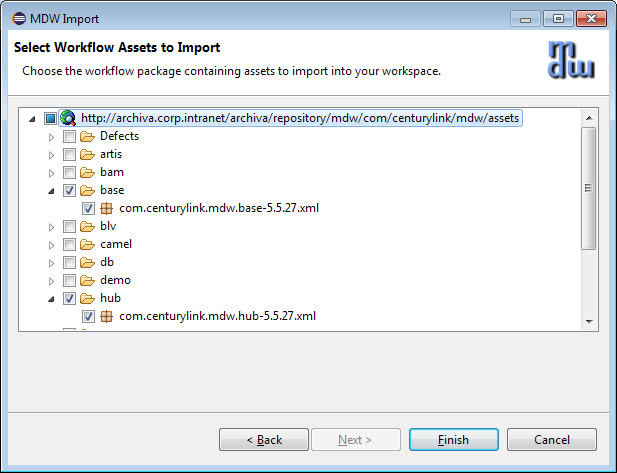
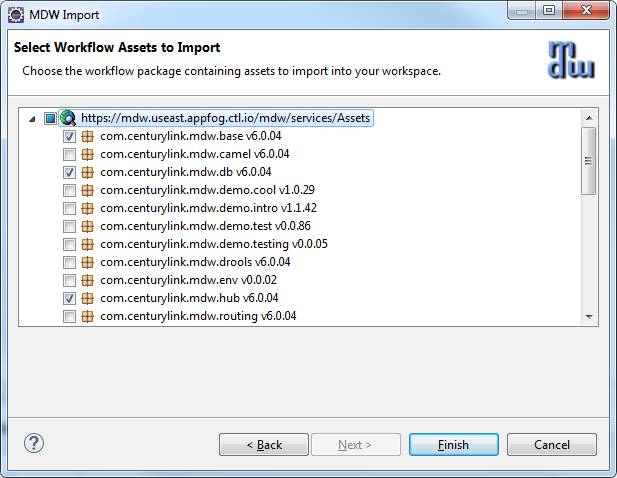
documentation #47

Changed region(s): [[0.0, 0.0, 1.0, 1.0], [0.9238, 0.3256, 0.9546, 0.3552]]

diff --git a/docs/_docs/help/workflowAssets.html b/docs/_docs/help/workflowAssets.html
@@ -42,7 +42,7 @@ All of these assets can be managed in the same way, with the following built-in 
 <h3>Managing Workflow Assets</h3>
 Workflow assets can be managed by developers or end-users via MDW Designer, as long as they belong to the role ProcessAdmin for the target project.
 To create a brand new instance of an asset, right-click on a workflow package in Process Explorer, and selecting New, and then the type of asset desired.
-Assuming that you appropriate permissions, updates can be accomplished by double-clicking the asset to edit it in place, or by right clicking and selecting Import > New Version.
+Assuming that you have appropriate permissions, updates can be accomplished by double-clicking the asset to edit it in place, or by right clicking and selecting Import > New Version.
 Either way, the version will be incremented and you'll be prompted for a comment to accompany the new version. 
 <br/><br/>
 <img src="images/newAsset.jpg" />
@@ -55,9 +55,9 @@ Then after updating the asset in an external editor, import your changes by righ
 <br/>
 
 <h3><a id="assetImport">Asset Import</a></h3>
-MDW applications need to be able to version their assets and propagate them one environment to another (dev to test, test to prod, etc.).
-Starting with MDW 5.5 asset versioning is achieved by integrating with Git (see <a href="assetPersistence.html">Asset Persistence</a>).
-Importing assets from Git can be done through Designer, or through a command-line interface to support automation and continuous integration.
+MDW applications need to be able to version their assets and propagate them from one environment to another (dev to test, test to prod, etc.).
+Asset versioning is achieved by integrating with GitHub (see <a href="assetPersistence.html">Asset Persistence</a>).
+Importing assets from GitHub can be done through Designer, or through a command-line interface to support automation and continuous integration.
 <br/><br/>
 TODO: screenshots for Designer import from Git, and examples of command-line import scripts
 <br/><br/>
@@ -65,7 +65,7 @@ TODO: screenshots for Designer import from Git, and examples of command-line imp
 <h3><a id="discovery">Asset Discovery</a></h3>
 Beyond environmental migrations, MDW <a href="workflowAssets.html">Workflow Assets</a> are meant to be shared and reused
 across applications.  For this purpose Designer provides a discovery mechanism to locate and import assets from a central repository.
-The MDW base and hub packages are examples of asset collections that can be reused in this way.
+The MDW base, db and hub packages are examples of asset collections that can be reused in this way.
 To discover and import these packages, right-click on your project in Process Explorer view and select 
 Import > Package(s) > Discover.
 <br/><br/>

diff --git a/docs/_docs/help/customAttributes.html b/docs/_docs/help/customAttributes.html
@@ -6,7 +6,7 @@
 <body>
 <h1>Custom Attributes</h1>
 
-MDW 5 has the capability to associate custom attributes with specific types (or "languages") of <a href='workflowAssets.html'>Workflow Assets</a>.
+MDW has the capability to associate custom attributes with specific types (or "languages") of <a href='workflowAssets.html'>Workflow Assets</a>.
 Workflow assets are MDW design artifacts such as Scripts, Templates, Pages, Reports, Rules, and Web Resources.
 <br/><br/>
 <br/>
